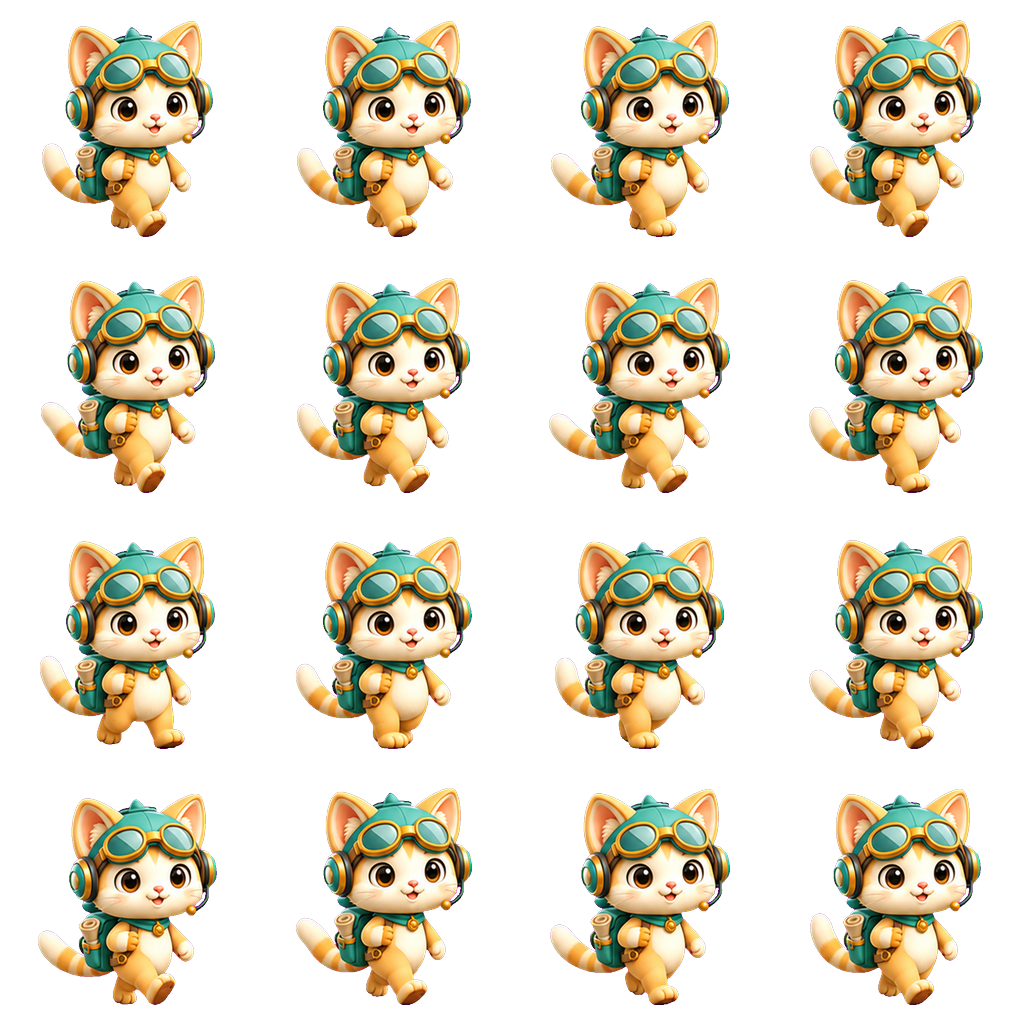
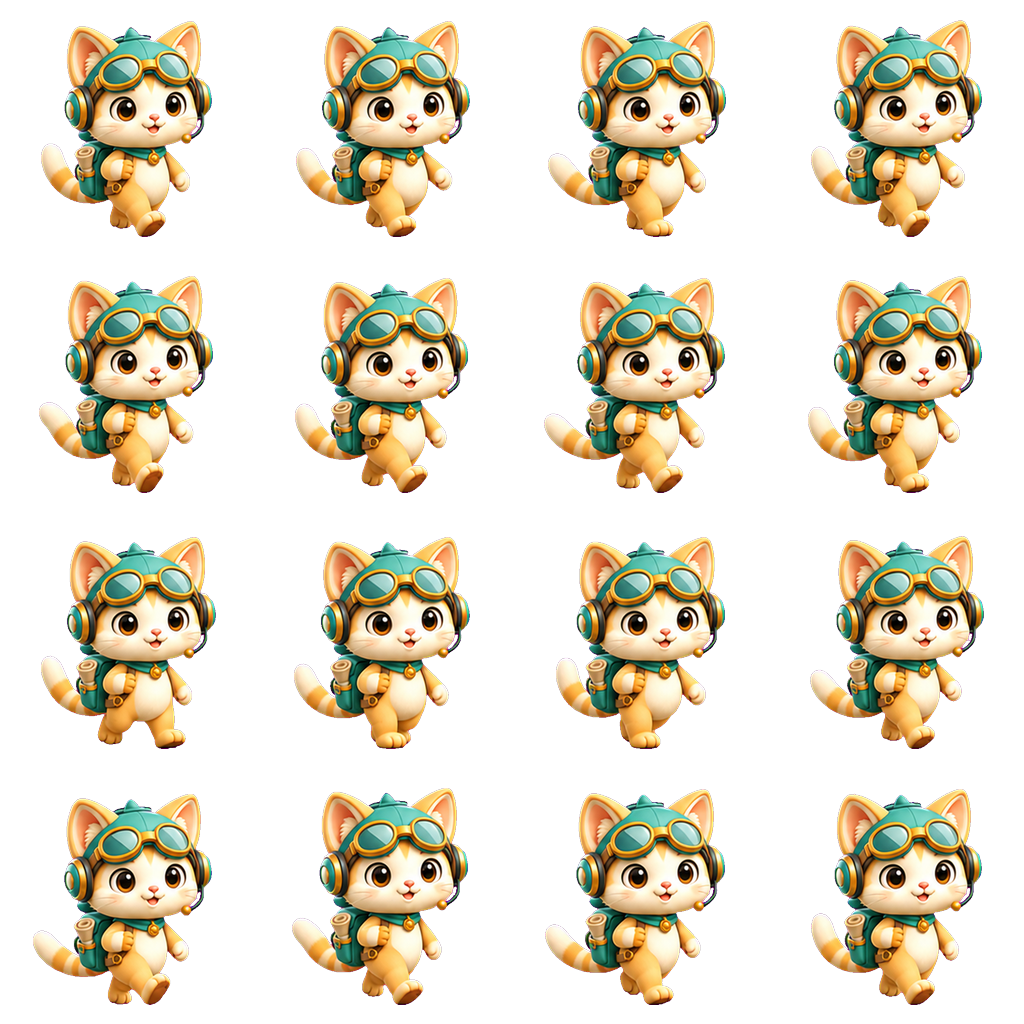
fix: smooth mascot tail loop and stabilize walking motion

diff --git a/scripts/portal-mascot.js b/scripts/portal-mascot.js
@@ -15,9 +15,10 @@
   const greet = document.querySelector("#mascotGreet");
   const motionPreference = window.matchMedia("(prefers-reduced-motion: reduce)");
   const sheets = {
-    idle: { cols: 3, count: 6 },
+    idle: { cols: 4, count: 16, frameMs: 150 },
+    blink: { cols: 3, count: 3 },
     wave: { cols: 4, count: 16, frameMs: 65 },
-    walk: { cols: 4, count: 16, frameMs: 65 }
+    walk: { cols: 4, count: 16 }
   };
   let ready = false;
   let paused = motionPreference.matches;
@@ -34,6 +35,9 @@
   let drag = null;
   let suppressClickUntil = 0;
   let lastFrame = "";
+  let facingLeft = false;
+  let heading = -2.65;
+  const blinkFrames = [0, 1, 2, 1, 0];
 
   function bounds() {
     const bottomSpace = window.innerWidth <= 680 ? 88 : 20;
@@ -66,17 +70,24 @@
   function goHome() {
     const b = bounds();
     point = { x: Math.max(b.minX, b.maxX - 16), y: Math.max(b.minY, b.maxY - 32) };
+    heading = -2.65;
+    facingLeft = false;
     position();
     setAction("idle", false);
   }
 
   function chooseDestination() {
     const b = bounds();
-    const target = { x: b.minX + Math.random() * (b.maxX - b.minX), y: b.minY + Math.random() * (b.maxY - b.minY) };
-    const dx = target.x - point.x, dy = target.y - point.y;
-    const length = Math.hypot(dx, dy);
-    const ratio = Math.min(1, (window.innerWidth <= 680 ? 180 : 280) / Math.max(1, length));
-    return { x: point.x + dx * ratio, y: point.y + dy * ratio };
+    const distance = window.innerWidth <= 680 ? 80 + Math.random() * 80 : 120 + Math.random() * 120;
+    let angle = heading + (Math.random() - 0.5) * 1.2;
+    let x = point.x + Math.cos(angle) * distance;
+    let y = point.y + Math.sin(angle) * distance;
+    if (x < b.minX || x > b.maxX) angle = Math.PI - angle;
+    if (y < b.minY || y > b.maxY) angle = -angle;
+    x = clamp(point.x + Math.cos(angle) * distance, b.minX, b.maxX);
+    y = clamp(point.y + Math.sin(angle) * distance, b.minY, b.maxY);
+    heading = angle;
+    return { x, y };
   }
 
   function pageBusy() {
@@ -96,6 +107,7 @@
       Math.floor(frame / sheet.cols) * 256, 256, 256, 0, 0, 256, 256);
     context.restore();
     companion.dataset.frame = `${name}:${frame}`;
+    companion.dataset.facing = mirror ? "left" : "right";
   }
 
   function setAction(next, announce) {
@@ -107,9 +119,10 @@
     if (next === "walk") {
       walkStart = { ...point };
       walkTarget = chooseDestination();
+      if (Math.abs(walkTarget.x - walkStart.x) > 1) facingLeft = walkTarget.x < walkStart.x;
     }
     if (announce) status.textContent = { blink: "眨眼，輕輕擺尾", wave: "向你揮揮手", walk: "出發探索！", idle: "休息一下" }[next];
-    draw(next === "blink" ? "idle" : next, 0, next === "walk" && walkTarget.x < walkStart.x);
+    draw(next, 0, facingLeft);
   }
 
   function stop() {
@@ -125,23 +138,30 @@
     if (action === "walk" && pageBusy()) { start(); return; }
     elapsed += delta;
     if (action === "walk") {
-      const duration = Math.max(1000, Math.hypot(walkTarget.x - walkStart.x, walkTarget.y - walkStart.y) / 0.052);
-      const progress = Math.min(1, elapsed / duration);
+      const distance = Math.hypot(walkTarget.x - walkStart.x, walkTarget.y - walkStart.y);
+      const duration = Math.max(1200, distance / 0.052 + 450);
+      const ramp = Math.min(450, duration / 4);
+      const t = Math.min(elapsed, duration);
+      const denominator = 2 * ramp * (duration - ramp);
+      const progress = t < ramp ? t * t / denominator : t > duration - ramp
+        ? 1 - (duration - t) * (duration - t) / denominator
+        : (t - ramp / 2) / (duration - ramp);
       point = { x: walkStart.x + (walkTarget.x - walkStart.x) * progress, y: walkStart.y + (walkTarget.y - walkStart.y) * progress };
       position();
-      draw("walk", Math.floor(elapsed / sheets.walk.frameMs) % sheets.walk.count, walkTarget.x < walkStart.x);
+      // Tie each step to distance so feet slow down with the body at both ends.
+      const cycles = Math.max(1, Math.round(distance / 54));
+      draw("walk", Math.floor(progress * cycles * sheets.walk.count) % sheets.walk.count, facingLeft);
       if (elapsed >= duration) setAction(Math.random() < 0.35 ? "wave" : "idle", false);
     } else if (action === "wave") {
-      draw("wave", Math.floor(elapsed / sheets.wave.frameMs) % sheets.wave.count, false);
+      draw("wave", Math.floor(elapsed / sheets.wave.frameMs) % sheets.wave.count, facingLeft);
       if (elapsed >= sheets.wave.frameMs * sheets.wave.count) setAction("idle", false);
     } else if (action === "blink") {
-      draw("idle", Math.min(5, Math.floor(elapsed / 140)), false);
-      if (elapsed >= 840) setAction("idle", false);
+      draw("blink", blinkFrames[Math.min(4, Math.floor(elapsed / 70))], facingLeft);
+      if (elapsed >= 350) setAction("idle", false);
     } else {
-      // Hold open eyes between occasional blinks; tail motion uses authored frames.
-      const cycle = elapsed % 5200;
-      const frame = cycle < 4200 ? [0, 5, 4, 5][Math.floor(cycle / 1050)] : Math.min(5, Math.floor((cycle - 4200) / 160));
-      draw("idle", frame, false);
+      const cycle = elapsed % 6350;
+      if (cycle >= 6000) draw("blink", blinkFrames[Math.min(4, Math.floor((cycle - 6000) / 70))], facingLeft);
+      else draw("idle", Math.floor(elapsed / sheets.idle.frameMs) % sheets.idle.count, facingLeft);
       if (!pageBusy() && !companion.matches(":hover")) idleTime += delta;
       if (roaming && idleTime >= nextWalk && !pageBusy() && !companion.matches(":hover")) setAction("walk", false);
     }
@@ -164,7 +184,7 @@
     // Explicit actions remain still when the OS requests reduced motion.
     if (motionPreference.matches) {
       setAction(next, false);
-      draw(next === "blink" ? "idle" : next, next === "blink" ? 2 : 1, false);
+      draw(next, next === "blink" ? 2 : 1, facingLeft);
       status.textContent = "已依系統設定減少動態，顯示動作定格。";
       return;
     }
@@ -255,7 +275,7 @@
 
   Promise.all(Object.entries(sheets).map(async ([name, sheet]) => {
     const image = new Image();
-    image.src = `./assets/mascot/${name}.webp?v=20261006b`;
+    image.src = `./assets/mascot/${name}.webp?v=20261007b`;
     await image.decode();
     if (image.width !== sheet.cols * 256 || image.height !== Math.ceil(sheet.count / sheet.cols) * 256) throw new Error("Unexpected mascot sheet geometry");
     sheet.image = image;

diff --git a/index.html b/index.html
@@ -640,7 +640,7 @@
       <span class="mascot-status" id="mascotStatus" role="status" aria-live="polite"></span>
     </aside>
     <button type="button" class="mascot-restore" id="mascotRestore" hidden>叫小曜回來</button>
-    <script src="./scripts/portal-mascot.js?v=20261007a" defer></script>
+    <script src="./scripts/portal-mascot.js?v=20261007b" defer></script>
     <script src="./scripts/portal-records.js?v=20261005a" defer></script>
     <script src="./scripts/portal-motion.js?v=20261005a" defer></script>
     <script src="./scripts/vendor/supabase-js-2.117.2.umd.js" defer></script>

diff --git a/docs/mascot-animation.md b/docs/mascot-animation.md
@@ -2,6 +2,7 @@
 
 2026-10-06：使用者確認 16 格揮手與走路版本，授權發布。
 2026-10-07：新增命名與畫面內自主散步；使用者授權完成後直接部署。
+2026-10-07：修正左右晃動；擺尾改為 16 格連續循環、眨眼獨立播放、穩定頭部水平位置，散步加入緩起緩停。
 
 「小曜」取自微小而明亮的光芒，作為陪伴訪客探索的微光夥伴。
 
@@ -12,17 +13,19 @@
 
 | 檔案 | 影格 | 格子 |
 | --- | --- | --- |
-| assets/mascot/idle.webp | 6 | 3 欄 × 2 列 |
+| assets/mascot/idle.webp | 16 | 4 欄 × 4 列 |
+| assets/mascot/blink.webp | 3 | 3 欄 × 1 列（擷取既有生成素材） |
 | assets/mascot/wave.webp | 16 | 4 欄 × 4 列 |
 | assets/mascot/walk.webp | 16 | 4 欄 × 4 列 |
 
-每格 256 × 256px，透明無損 WebP。揮手與走路每格 65ms，約每秒 15 張影格；揮手播放一次完整的抬手、擺手、放下動作。生成影格保留角色主要特徵，但仍需人工確認動作與外觀是否符合品牌期待。
+每格 256 × 256px，透明無損 WebP。待機擺尾每格 150ms；眨眼以開眼、半閉、閉眼、半閉、開眼的 70ms 節奏播放。揮手每格 65ms；走路以約每 54px 一個 16 格步伐循環，影格進度隨移動距離播放，抵達時結束完整循環。
 
 ## 網站行為
 
 - `scripts/portal-mascot.js` 使用 Canvas 播放已生成的影格，不以程式重新繪製角色。
 - 預設待機擺尾、間歇眨眼；休息 5～10 秒後在畫面內選取二維目的地，以短程路線自主散步，抵達後休息或揮手。
 - 可拖曳角色改變位置；輕點依然揮手，拖曳後不誤觸揮手。
+- 擺尾與走路素材只做整格水平位置校正，沒有逐格改變比例或重繪角色。散步沿用前次方向做小幅轉向，起步與停步各有緩衝；抵達後保留朝向，避免立即翻面。
 - 「微光・小曜」按鈕開啟選單，可關閉自由散步或回到角落。散步與動畫暫停分開控制。
 - 角色保持在視窗範圍內，手機保留底部導覽空間；選單依角色位置改放上方或下方並限制在畫面內。
 - 游標移入角色時停下；開啟選單、對話框或使用輸入欄位時暫停走動。
@@ -35,6 +38,6 @@
 
 ## 發布範圍
 
-命名與自主散步改動僅涉及 `index.html`、`mascot.css`、`scripts/portal-mascot.js` 與兩份說明文件。沿用原有影格素材；這是頁面上的二維寵物式移動，沒有新增上下方向的 3D 姿勢。
+這次自然度修正涉及 `index.html`、`scripts/portal-mascot.js`、待機／走路素材、新增的眨眼素材與兩份說明文件。這是頁面上的二維寵物式移動，沒有新增上下方向的 3D 姿勢。
 
 修改資源後同步增加 `index.html` 中相應 `?v=`，以及動畫腳本載入 WebP 的版本號。所有路徑相對網站，不依賴開發機的絕對路徑。
